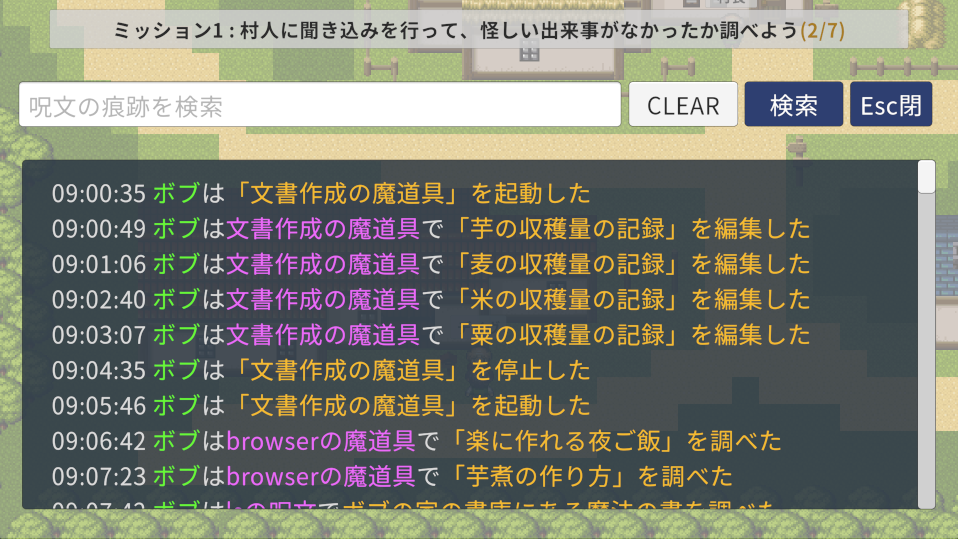
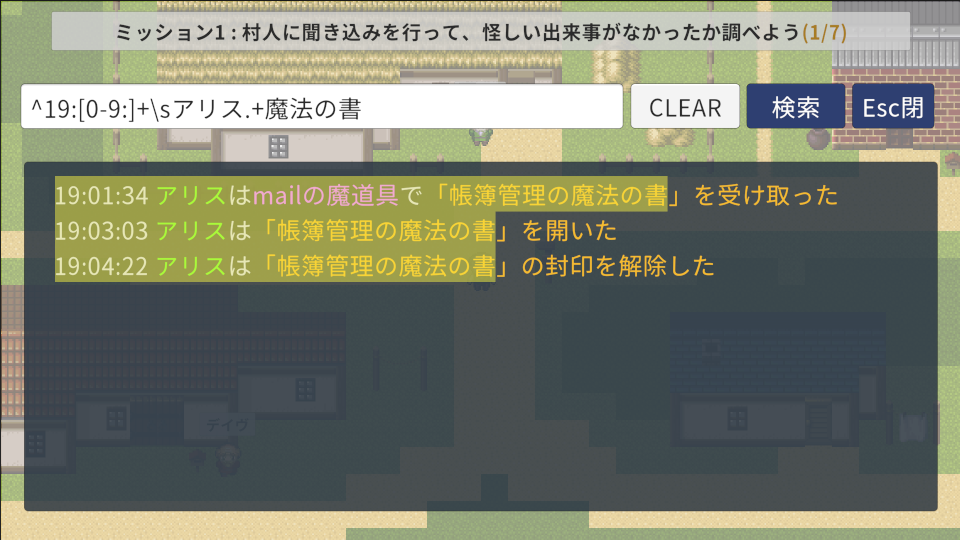
fix: フルスクリーンに関する記述を削除、正規表現による検索の記述を追加

diff --git a/docs/game_flow.md b/docs/game_flow.md
@@ -90,7 +90,8 @@
     - Hキーで貰った情報画面を開く
 
 #### 呪文の痕跡画面
-- 検索可能 (`grep --color`のように検索文字列を含む行だけ抽出、検索文字列をハイライト)
+- 正規表現による検索可能 (検索文字列を含む行だけ抽出、検索文字列をハイライト)
+  - 例: `^19:[0-9:]+\sアリス.+魔法の書`
 - スクロール可能
 - ログのフォーマットは `[時間] [人名] は ([xxの呪文 or yyの魔法の書]で) [zz] をした`
 - ログの行数は190行
